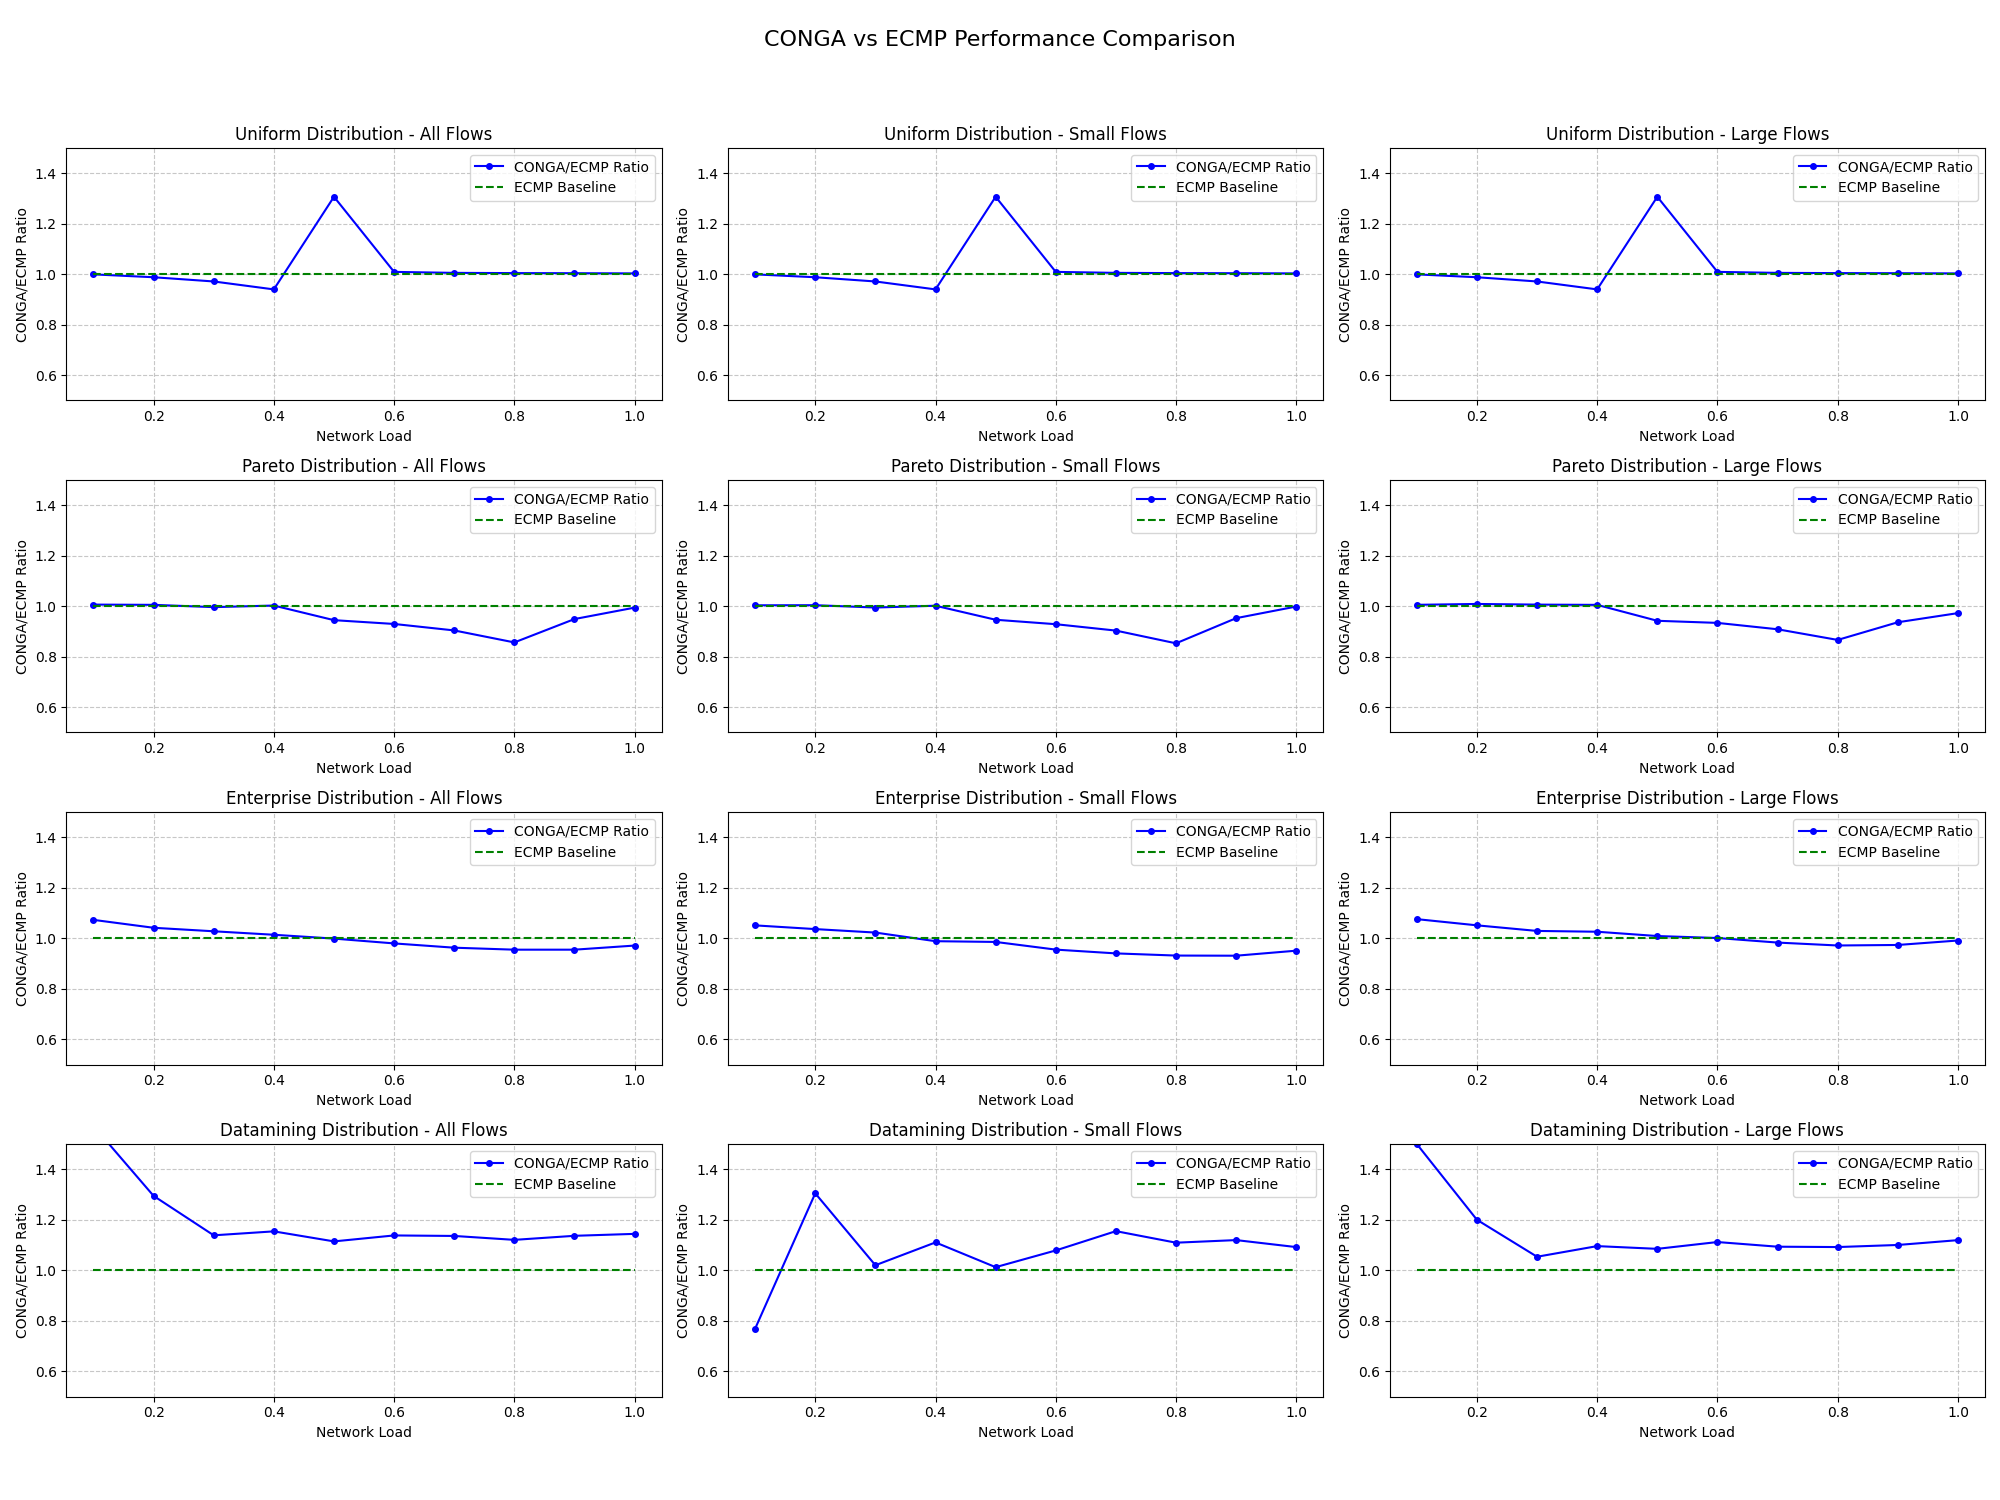
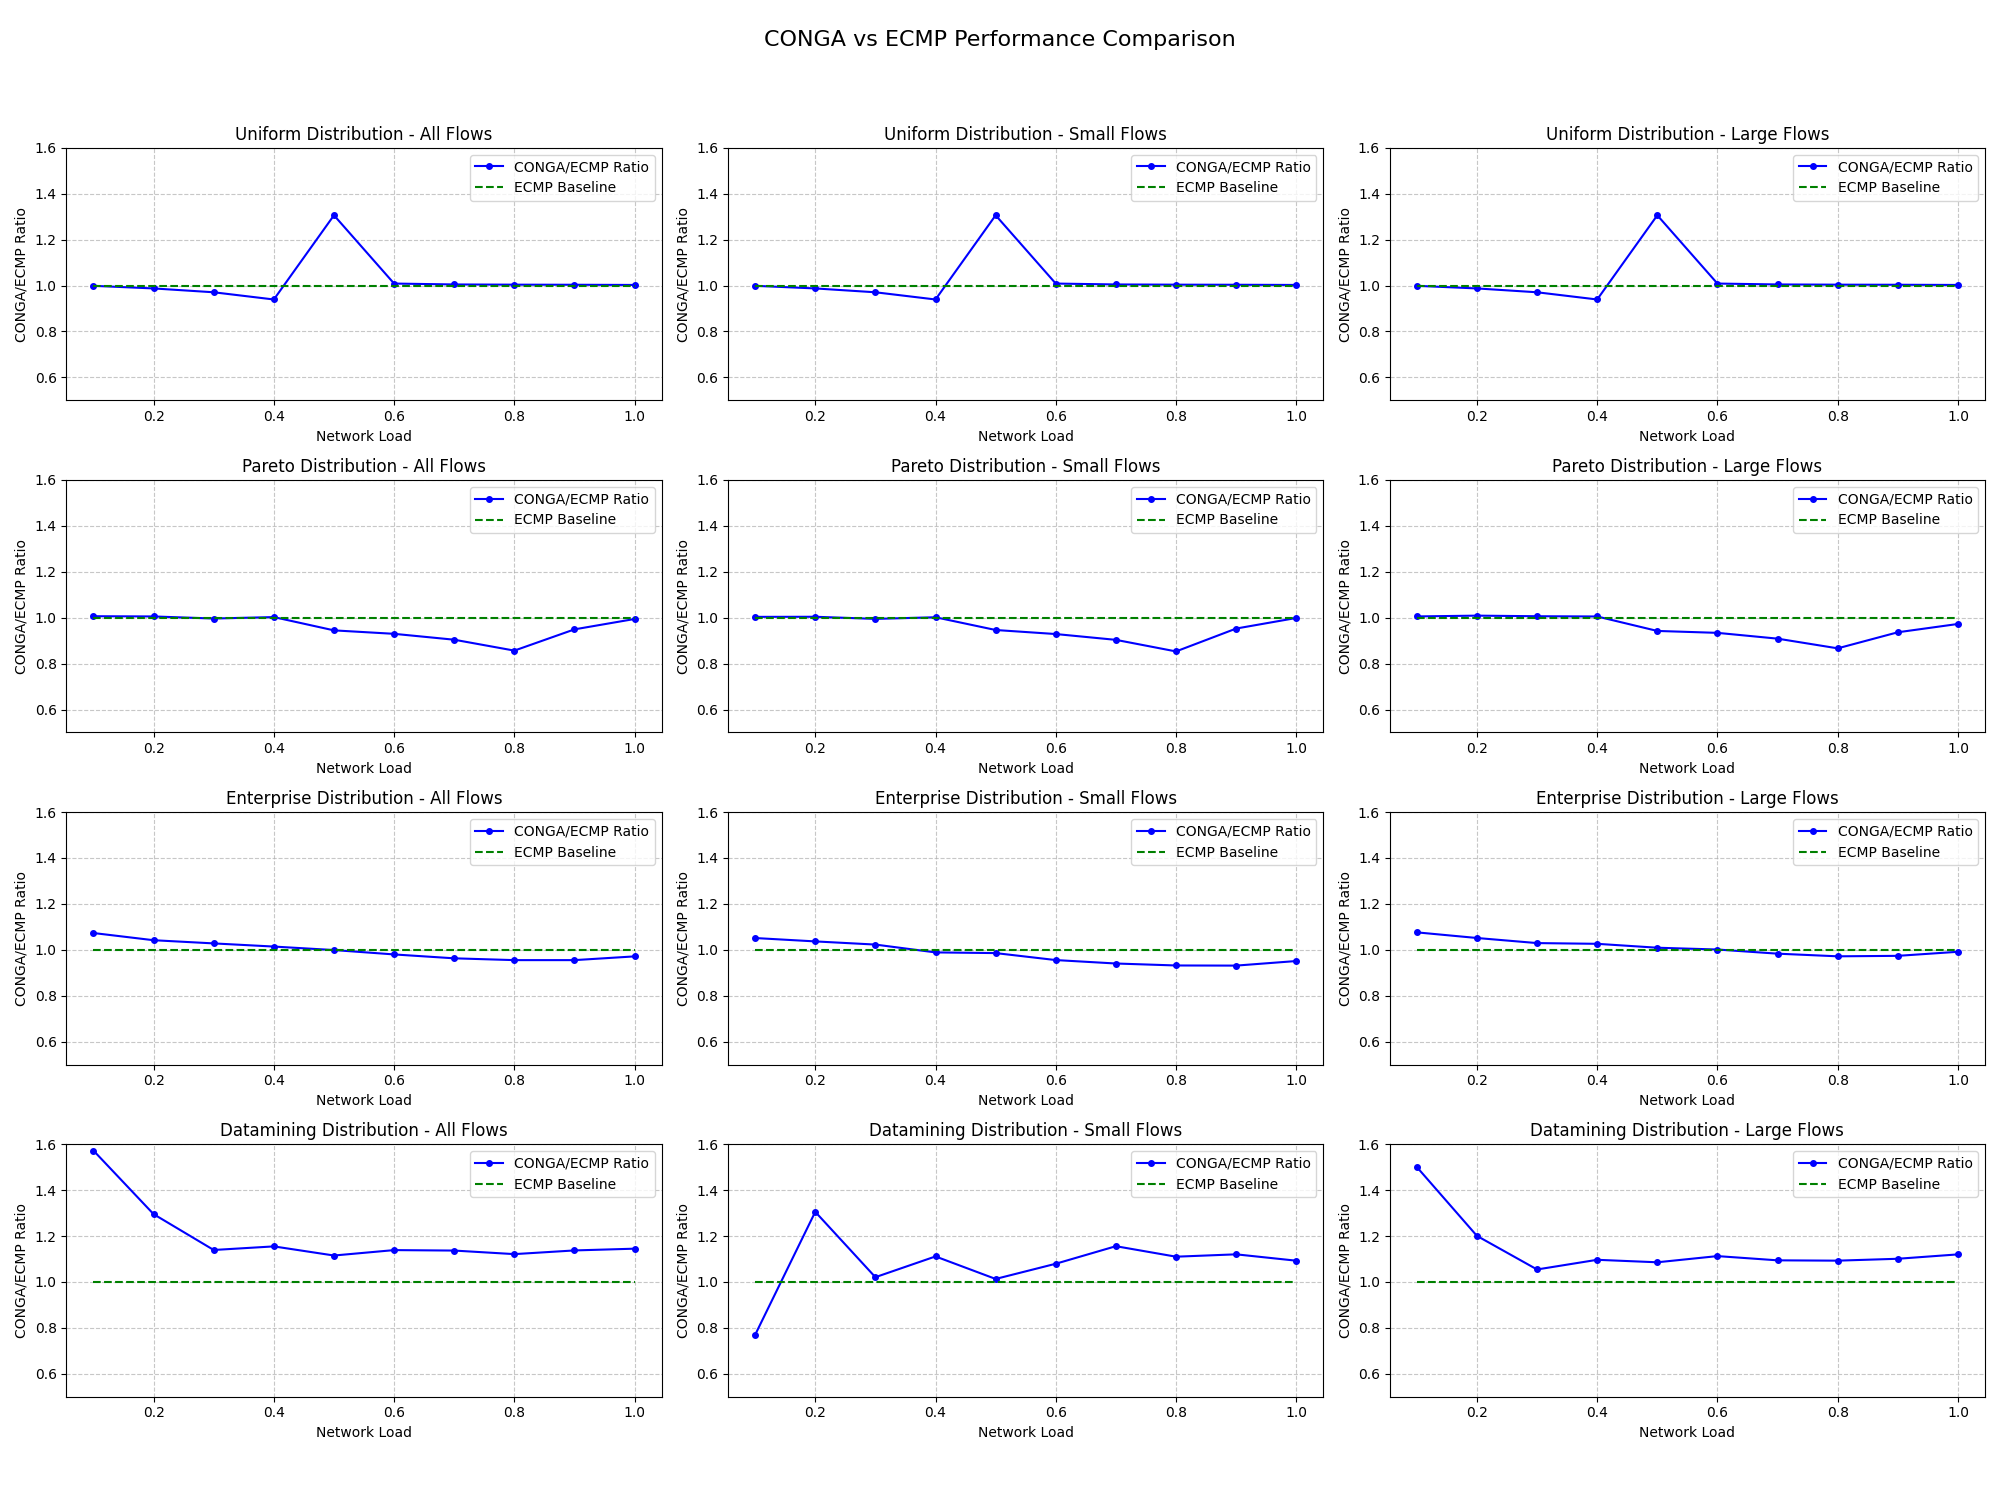
UPDATE: result.png

diff --git a/htsim/result.py b/htsim/result.py
@@ -81,7 +81,7 @@ def plot_ratio(distribution, flow_size, ax):
     ax.set_title(f'{distribution.capitalize()} Distribution - {flow_size.capitalize()} Flows')
     ax.grid(True, linestyle='--', alpha=0.7)
     ax.legend()
-    ax.set_ylim([0.5, 1.5])
+    ax.set_ylim([0.5, 1.6])
 
 # Create plots
 fig = plt.figure(figsize=(20, 15))
